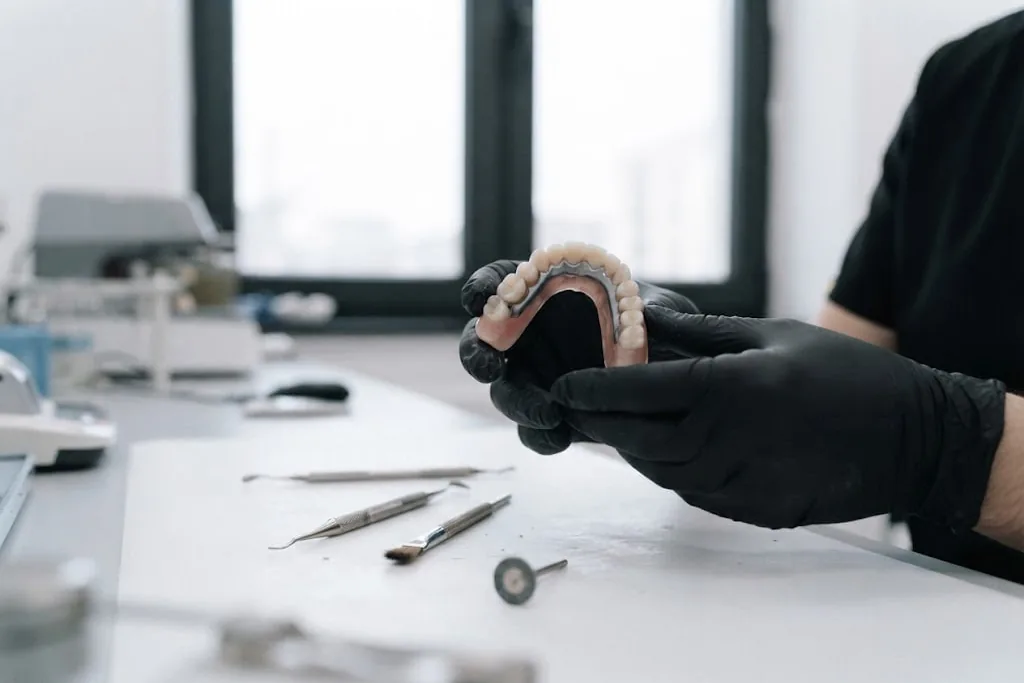
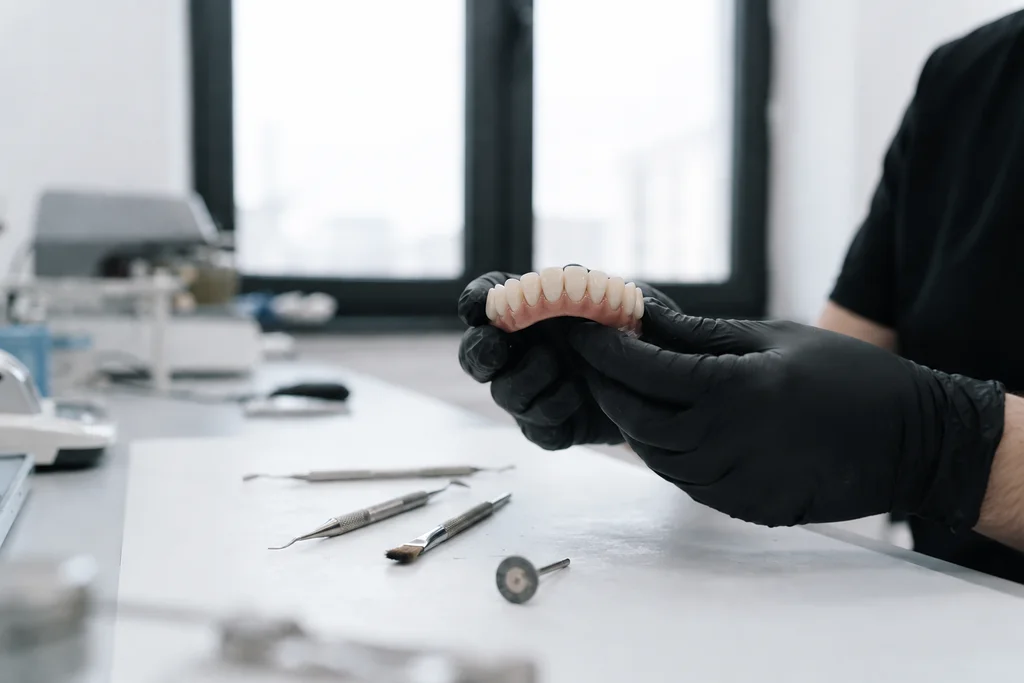
[FKLDSJ-062] Заменил фото завтрака и протеза в руках

diff --git a/final/index.html b/final/index.html
@@ -187,7 +187,7 @@
  <h2 id="care-title">Восстановим жевательную функцию<br> и остановим обвисание овала лица</h2>
  <div class="care-grid">
   <article class="care-item">
-   <img src="../assets/land/care-chewing.webp?v=2" alt="Мужчина с аппетитом ест багет за столом" width="1020" height="765" loading="lazy">
+   <img src="../assets/land/care-chewing.webp?v=3" alt="Пожилая пара завтракает дома, мужчина с аппетитом ест бутерброд" width="1020" height="765" loading="lazy">
    <div class="care-item-body"><h3>Восстановление жевательной функции</h3><p>Поможем вернуть радость от еды.<br>Протез с опорой на импланты не двигается и не натирает. Нагрузку увеличивают по рекомендациям врача: сроки адаптации и допустимые продукты зависят от этапа лечения.</p></div>
   </article>
   <article class="care-item">
@@ -236,7 +236,7 @@
     </div>
   </div>
 </section>
-<section class="implant-brands" id="implant-brands" aria-labelledby="implant-brands-title"><div class="implant-brands-wrap"><h2 id="implant-brands-title">Используем лучшие бренды имплантов</h2><p class="implant-brands-intro">У каждой системы свои варианты поверхности, формы и протезных компонентов.<br> Врач выбирает модель под вашу ситуацию и будущую конструкцию.</p><div class="implant-brands-grid"><article class="implant-brand-card snucone"><div class="implant-country"><svg viewBox="0 0 32 23" width="30" height="22" aria-hidden="true"><rect width="32" height="23" rx="4" fill="white" stroke="#e9e4ef"/><g transform="translate(16 11.5) rotate(30)"><circle r="6" fill="#cd2e3a"/><path d="M-6 0a6 6 0 0012 0a3 3 0 00-6 0a3 3 0 01-6 0" fill="#0047a0"/></g><path d="M4 5l4-2M3 8l4-2M24 3l4 2M25 6l4 2M3 17l4 2M4 20l4 2M24 20l4-2M25 17l4-2" stroke="#222" stroke-width="1.5"/></svg><span>Южная Корея</span></div><div class="implant-brand-logo"><img src="../assets/brands/snucone.png" alt="SNUCONE" loading="lazy"></div><img class="implant-product" src="../assets/render/implant-snucone.webp" alt="Иллюстрация импланта SNUCONE" width="100" height="230" loading="lazy"><ul><li><svg viewBox="0 0 24 24" aria-hidden="true"><path d="m4 12 5 5L21 5" fill="none" stroke="currentColor" stroke-width="2.7" stroke-linecap="round" stroke-linejoin="round"/></svg><span>SLA-поверхность по технологии, разработанной с немецким партнёром</span></li><li><svg viewBox="0 0 24 24" aria-hidden="true"><path d="m4 12 5 5L21 5" fill="none" stroke="currentColor" stroke-width="2.7" stroke-linecap="round" stroke-linejoin="round"/></svg><span>Внутренний шестигранник с конусом 11° – плотная посадка протеза</span></li><li><svg viewBox="0 0 24 24" aria-hidden="true"><path d="m4 12 5 5L21 5" fill="none" stroke="currentColor" stroke-width="2.7" stroke-linecap="round" stroke-linejoin="round"/></svg><span>Базовое решение центра имплантации на Динамо</span></li></ul><div class="implant-brand-price"><span>всё на 4-х под ключ</span><strong>189 000 ₽</strong></div></article><article class="implant-brand-card riellens"><div class="implant-country"><svg viewBox="0 0 32 23" width="30" height="22" aria-hidden="true"><rect width="32" height="23" rx="4" fill="#009b3a"/><path d="M3 11.5L16 3l13 8.5L16 20z" fill="#ffdf00"/><circle cx="16" cy="11.5" r="6" fill="#002776"/><path d="M10.5 9.5q6 0 11 5" fill="none" stroke="white" stroke-width="1.5"/></svg><span>Бразилия</span></div><div class="implant-brand-logo"><img src="../assets/brands/riellens.png" alt="Riellen’s" loading="lazy"></div><img class="implant-product" src="../assets/render/implant-riellens.webp" alt="Иллюстрация импланта Riellen’s" width="100" height="230" loading="lazy"><ul><li><svg viewBox="0 0 24 24" aria-hidden="true"><path d="m4 12 5 5L21 5" fill="none" stroke="currentColor" stroke-width="2.7" stroke-linecap="round" stroke-linejoin="round"/></svg><span>Технически чистый титан Grade 4 без алюминия и ванадия</span></li><li><svg viewBox="0 0 24 24" aria-hidden="true"><path d="m4 12 5 5L21 5" fill="none" stroke="currentColor" stroke-width="2.7" stroke-linecap="round" stroke-linejoin="round"/></svg><span>Модифицированная SLA-поверхность, широкий выбор размеров</span></li><li><svg viewBox="0 0 24 24" aria-hidden="true"><path d="m4 12 5 5L21 5" fill="none" stroke="currentColor" stroke-width="2.7" stroke-linecap="round" stroke-linejoin="round"/></svg><span>Протоколы немедленной нагрузки на 4 и 6 опорах</span></li></ul><div class="implant-brand-price"><span>всё на 4-х под ключ</span><strong>349 000 ₽</strong></div></article><article class="implant-brand-card nobel"><span class="implant-premium">Премиум</span><div class="implant-country"><svg viewBox="0 0 32 23" width="30" height="22" aria-hidden="true"><rect width="32" height="23" rx="4" fill="#ed1028"/><path d="M13 4h6v5h5v5h-5v5h-6v-5H8V9h5z" fill="white"/></svg><span>Швейцария</span></div><div class="implant-brand-logo neodent-logo"><img src="../assets/brands/neodent.png" alt="Neodent by Straumann" loading="lazy"></div><img class="implant-product" src="../assets/render/implant-nobel.webp" alt="Иллюстрация импланта Straumann" width="100" height="230" loading="lazy"><ul><li><svg viewBox="0 0 24 24" aria-hidden="true"><path d="m4 12 5 5L21 5" fill="none" stroke="currentColor" stroke-width="2.7" stroke-linecap="round" stroke-linejoin="round"/></svg><span>Straumann Group – один из мировых лидеров имплантологии</span></li><li><svg viewBox="0 0 24 24" aria-hidden="true"><path d="m4 12 5 5L21 5" fill="none" stroke="currentColor" stroke-width="2.7" stroke-linecap="round" stroke-linejoin="round"/></svg><span>Поверхность для надёжной остеоинтеграции</span></li><li><svg viewBox="0 0 24 24" aria-hidden="true"><path d="m4 12 5 5L21 5" fill="none" stroke="currentColor" stroke-width="2.7" stroke-linecap="round" stroke-linejoin="round"/></svg><span>Гарантия производителя на импланты</span></li></ul><div class="implant-brand-price"><span>всё на 4-х под ключ</span><strong>379 000 ₽</strong></div></article></div></div></section><section class="smile-aesthetic" id="smile-aesthetic" aria-labelledby="smile-aesthetic-title"><div class="smile-aesthetic-wrap"><div class="smile-aesthetic-hero"><div class="smile-aesthetic-copy"><h2 id="smile-aesthetic-title">Работаем над естественной <span>эстетикой вашей улыбки</span></h2><p class="smile-aesthetic-lead">Подберём форму и цвет эмали, подходящие к вашему типу лица.</p><p>Диагностика, согласование формы и цвета, изготовление и проверка удобства – отдельные шаги вашего плана. Протез проектируем по CAD/CAM с учётом анатомии челюсти и прикуса.</p></div></div><div class="smile-shade-panel"><div class="smile-shade-photo" id="shadePhoto"><img src="../assets/shade/smile.jpg" alt="Улыбка пациентки после протезирования" width="1200" height="675" loading="lazy"><div class="shade-tint"></div><div class="shade-bleach"></div><div class="smile-shade-label"><b>A2</b><small>Естественный тёплый оттенок</small></div></div><div class="smile-shade-selector"><p class="smile-shade-hint">Выберите оттенок, чтобы узнать о нём больше</p><div class="smile-shade-row" role="group" aria-label="Образцы оттенков зубов"><div class="smile-shade-item" data-shade="A1" data-t="#f3ecd9"><div class="smile-shade-tip" id="shade-tip-A1" role="tooltip"><strong>A1</strong><span>Светлый тёплый оттенок</span></div><button class="smile-shade-button" type="button" aria-label="Оттенок A1" aria-describedby="shade-tip-A1" aria-pressed="false"><img src="../assets/shades/A1.webp" alt="" width="70" height="130" loading="lazy"><span>A1</span></button></div><div class="smile-shade-item is-preview" data-shade="A2" data-t="#eadbb9"><div class="smile-shade-tip" id="shade-tip-A2" role="tooltip"><strong>A2</strong><span>Естественный тёплый оттенок</span></div><button class="smile-shade-button" type="button" aria-label="Оттенок A2" aria-describedby="shade-tip-A2" aria-pressed="true"><img src="../assets/shades/A2.webp" alt="" width="70" height="130" loading="lazy"><span>A2</span></button></div><div class="smile-shade-item" data-shade="A3" data-t="#dcc38f"><div class="smile-shade-tip" id="shade-tip-A3" role="tooltip"><strong>A3</strong><span>Более насыщенный тёплый оттенок</span></div><button class="smile-shade-button" type="button" aria-label="Оттенок A3" aria-describedby="shade-tip-A3" aria-pressed="false"><img src="../assets/shades/A3.webp" alt="" width="70" height="130" loading="lazy"><span>A3</span></button></div><div class="smile-shade-item" data-shade="B1" data-t="#f3f1e4"><div class="smile-shade-tip" id="shade-tip-B1" role="tooltip"><strong>B1</strong><span>Светлый нейтральный оттенок</span></div><button class="smile-shade-button" type="button" aria-label="Оттенок B1" aria-describedby="shade-tip-B1" aria-pressed="false"><img src="../assets/shades/B1.webp" alt="" width="70" height="130" loading="lazy"><span>B1</span></button></div><div class="smile-shade-item" data-shade="B2" data-t="#e6d8a6"><div class="smile-shade-tip" id="shade-tip-B2" role="tooltip"><strong>B2</strong><span>Мягкий желтоватый оттенок</span></div><button class="smile-shade-button" type="button" aria-label="Оттенок B2" aria-describedby="shade-tip-B2" aria-pressed="false"><img src="../assets/shades/B2.webp" alt="" width="70" height="130" loading="lazy"><span>B2</span></button></div><div class="smile-shade-item" data-shade="C1" data-t="#d8d5c9"><div class="smile-shade-tip" id="shade-tip-C1" role="tooltip"><strong>C1</strong><span>Сдержанный сероватый оттенок</span></div><button class="smile-shade-button" type="button" aria-label="Оттенок C1" aria-describedby="shade-tip-C1" aria-pressed="false"><img src="../assets/shades/C1.webp" alt="" width="70" height="130" loading="lazy"><span>C1</span></button></div><div class="smile-shade-item" data-shade="D2" data-t="#d2c1b2"><div class="smile-shade-tip" id="shade-tip-D2" role="tooltip"><strong>D2</strong><span>Красновато-серый оттенок</span></div><button class="smile-shade-button" type="button" aria-label="Оттенок D2" aria-describedby="shade-tip-D2" aria-pressed="false"><img src="../assets/shades/D2.webp" alt="" width="70" height="130" loading="lazy"><span>D2</span></button></div><div class="smile-shade-item" data-shade="BL" data-t="#ffffff" data-bl="1"><div class="smile-shade-tip" id="shade-tip-BL" role="tooltip"><strong>BL</strong><span>Яркий отбелённый оттенок</span></div><button class="smile-shade-button" type="button" aria-label="Оттенок BL" aria-describedby="shade-tip-BL" aria-pressed="false"><img src="../assets/shades/BL.webp" alt="" width="70" height="130" loading="lazy"><span>BL</span></button></div></div><p class="smile-shade-note">Иллюстративные образцы оттенков VITA и Bleach. Цвет на экране может отличаться. Финальный оттенок подбирает врач вместе с вами на примерке.</p><span class="smile-shade-status" role="status" aria-live="polite"></span></div></div></div></section><section class="opinion-section" id="second-opinion" aria-labelledby="opinion-title"><div class="opinion-wrap"><ol class="opinion-stages" aria-label="Этапы цифрового протезирования"><li><img src="../assets/land/stage-ct.webp?v=2" alt="3D КТ челюсти в клинике" width="1200" height="800" loading="lazy"><div><span class="opinion-stage-number">1</span><p>3D КТ с ИИ-анализом<br> Diagnocat – 0 ₽</p></div></li><li><img src="../assets/land/stage-plan.webp?v=2" alt="Цифровое планирование имплантации" width="1200" height="800" loading="lazy"><div><span class="opinion-stage-number">2</span><p>Цифровой план<br> и выбор оттенка</p></div></li><li><img src="../assets/render/stage-prosthesis.webp?v=2" alt="Протез с кобальт-хромовой балкой" width="1200" height="800" loading="lazy"><div><span class="opinion-stage-number">3</span><p>Протез с кобальт-хромовой<br> балкой</p></div></li></ol><div class="opinion-card"><div class="opinion-copy"><span class="opinion-eyebrow">Второе мнение</span><h2 id="opinion-title">Пришлите план лечения – <span>получите скидку 15%</span></h2><p>Разберём чужой план по пунктам: что действительно нужно, что лишнее, где спрятаны доплаты. Ответим понятным языком и пришлём свой расчёт со скидкой 15%.</p><img class="opinion-documents" src="../assets/render/plan-documents.webp" alt="Иллюстрация документов с планом лечения" width="520" height="310" loading="lazy"><svg class="opinion-arrow" viewBox="0 0 110 80" fill="none" aria-hidden="true"><path d="M4 74Q36 13 98 17m-14-13 15 13-15 13" stroke="currentColor" stroke-width="2.5" stroke-linecap="round" stroke-linejoin="round"/></svg></div><form class="opinion-form" id="opinion-form"><h3>Фото или PDF плана</h3><label class="opinion-drop" id="opinion-drop"><input type="file" id="opinion-files" accept="image/jpeg,image/png,image/webp,application/pdf" multiple aria-label="Выбрать фото или PDF плана лечения"><svg viewBox="0 0 80 80" fill="none" aria-hidden="true"><path d="M24 53H20a14 14 0 01-1-28 22 22 0 0142-1 15 15 0 01-1 29h-5M40 64V35m-11 11 11-11 11 11" stroke="currentColor" stroke-width="3" stroke-linecap="round" stroke-linejoin="round"/></svg><span>Перетащите сюда или нажмите</span><small>PDF, JPG, PNG или WebP · до 5 файлов по 10 МБ</small></label><ul class="opinion-file-list" aria-label="Выбранные файлы"></ul><p class="opinion-upload-status" role="status" aria-live="polite"></p><button class="opinion-submit" type="submit">Получить расчёт со скидкой <span aria-hidden="true">›</span></button><label class="opinion-consent"><input type="checkbox" required><span>Согласен на <a href="policy/" target="_blank" rel="noopener">обработку персональных данных</a></span></label><p class="form-message" role="status" aria-live="polite"></p></form></div></div></section><section id="care-support" class="care-support" aria-labelledby="care-support-title"><div class="care-support-wrap"><h2 id="care-support-title">Сопровождение и гарантии – в договоре</h2><p class="care-support-intro">До начала лечения согласуем план, стоимость и обязательства клиники.<br> Условия сопровождения и гарантии фиксируем в договоре и приложениях.</p><ol class="care-support-steps"><li class="care-support-step care-support-step-1"><div class="care-support-visual"><span class="care-support-number" aria-hidden="true">1</span><img src="../assets/land/support-consult.webp?v=2" alt="Консультация и диагностика" width="1200" height="800" loading="lazy"></div><h3>Консультация<br>и диагностика</h3><p>Выясняем ситуацию и объясняем, какие обследования нужны. КТ и консультация имплантолога – <b>0 ₽.</b></p></li><li class="care-support-step care-support-step-2"><div class="care-support-visual"><span class="care-support-number" aria-hidden="true">2</span><img src="../assets/land/support-plan.webp" alt="Выбор решения и стоимость" width="1200" height="800" loading="lazy"></div><h3>Выбор решения<br>и стоимость</h3><p>Согласуем вариант лечения, этапы и расчёт до начала работ. Три плана от трёх специалистов.</p></li><li class="care-support-step care-support-step-3"><div class="care-support-visual"><span class="care-support-number" aria-hidden="true">3</span><img src="../assets/land/support-treatment.webp?v=2" alt="Подготовка и лечение" width="1200" height="800" loading="lazy"></div><h3>Подготовка<br>и лечение</h3><p>Удаление, установка имплантов и адаптационный протез – в один визит.</p></li><li class="care-support-step care-support-step-4"><div class="care-support-visual"><span class="care-support-number" aria-hidden="true">4</span><img src="../assets/land/support-prosthetics.webp?v=2" alt="Протезирование" width="1200" height="800" loading="lazy"></div><h3>Протезирование</h3><p>Согласуем внешний вид зубов, проверяем прикус и удобство.</p></li><li class="care-support-step care-support-step-5"><div class="care-support-visual"><span class="care-support-number" aria-hidden="true">5</span><img src="../assets/land/support-care.webp?v=2" alt="Адаптация и поддержка" width="1200" height="800" loading="lazy"></div><h3>Адаптация<br>и поддержка</h3><p>Рекомендации по уходу, осмотры и коррекции по плану. Остаёмся на связи 24/7.</p></li><li class="care-support-step care-support-step-6"><div class="care-support-visual"><span class="care-support-number" aria-hidden="true">6</span><img src="../assets/land/support-guarantee.webp" alt="Гарантия и обслуживание" width="1200" height="800" loading="lazy"></div><h3>Гарантия<br>и обслуживание</h3><p>Сроки, условия гарантии и порядок обращения прописаны <b>в договоре.</b></p></li></ol><article class="care-contract"><div class="care-contract-art"><img src="../assets/render/contract.webp" alt="Иллюстрация договора на стоматологические услуги" width="480" height="280" loading="lazy"></div><div class="care-contract-copy"><span class="care-contract-eyebrow">Образец договора</span><h3>Изучите договор до консультации</h3><p>В договоре зафиксировано всё, о чём договорились на консультации:</p><ul class="care-contract-list"><li>объём услуг</li><li>стоимость</li><li>порядок оплаты</li><li>условия гарантии</li><li>обязанности сторон</li></ul><button type="button" class="care-contract-button" data-modal data-contract>Запросить договор <span aria-hidden="true">›</span></button><p class="care-contract-note">Пришлём образец на почту или покажем на консультации.</p></div></article></div></section><!-- О клинике -->
+<section class="implant-brands" id="implant-brands" aria-labelledby="implant-brands-title"><div class="implant-brands-wrap"><h2 id="implant-brands-title">Используем лучшие бренды имплантов</h2><p class="implant-brands-intro">У каждой системы свои варианты поверхности, формы и протезных компонентов.<br> Врач выбирает модель под вашу ситуацию и будущую конструкцию.</p><div class="implant-brands-grid"><article class="implant-brand-card snucone"><div class="implant-country"><svg viewBox="0 0 32 23" width="30" height="22" aria-hidden="true"><rect width="32" height="23" rx="4" fill="white" stroke="#e9e4ef"/><g transform="translate(16 11.5) rotate(30)"><circle r="6" fill="#cd2e3a"/><path d="M-6 0a6 6 0 0012 0a3 3 0 00-6 0a3 3 0 01-6 0" fill="#0047a0"/></g><path d="M4 5l4-2M3 8l4-2M24 3l4 2M25 6l4 2M3 17l4 2M4 20l4 2M24 20l4-2M25 17l4-2" stroke="#222" stroke-width="1.5"/></svg><span>Южная Корея</span></div><div class="implant-brand-logo"><img src="../assets/brands/snucone.png" alt="SNUCONE" loading="lazy"></div><img class="implant-product" src="../assets/render/implant-snucone.webp" alt="Иллюстрация импланта SNUCONE" width="100" height="230" loading="lazy"><ul><li><svg viewBox="0 0 24 24" aria-hidden="true"><path d="m4 12 5 5L21 5" fill="none" stroke="currentColor" stroke-width="2.7" stroke-linecap="round" stroke-linejoin="round"/></svg><span>SLA-поверхность по технологии, разработанной с немецким партнёром</span></li><li><svg viewBox="0 0 24 24" aria-hidden="true"><path d="m4 12 5 5L21 5" fill="none" stroke="currentColor" stroke-width="2.7" stroke-linecap="round" stroke-linejoin="round"/></svg><span>Внутренний шестигранник с конусом 11° – плотная посадка протеза</span></li><li><svg viewBox="0 0 24 24" aria-hidden="true"><path d="m4 12 5 5L21 5" fill="none" stroke="currentColor" stroke-width="2.7" stroke-linecap="round" stroke-linejoin="round"/></svg><span>Базовое решение центра имплантации на Динамо</span></li></ul><div class="implant-brand-price"><span>всё на 4-х под ключ</span><strong>189 000 ₽</strong></div></article><article class="implant-brand-card riellens"><div class="implant-country"><svg viewBox="0 0 32 23" width="30" height="22" aria-hidden="true"><rect width="32" height="23" rx="4" fill="#009b3a"/><path d="M3 11.5L16 3l13 8.5L16 20z" fill="#ffdf00"/><circle cx="16" cy="11.5" r="6" fill="#002776"/><path d="M10.5 9.5q6 0 11 5" fill="none" stroke="white" stroke-width="1.5"/></svg><span>Бразилия</span></div><div class="implant-brand-logo"><img src="../assets/brands/riellens.png" alt="Riellen’s" loading="lazy"></div><img class="implant-product" src="../assets/render/implant-riellens.webp" alt="Иллюстрация импланта Riellen’s" width="100" height="230" loading="lazy"><ul><li><svg viewBox="0 0 24 24" aria-hidden="true"><path d="m4 12 5 5L21 5" fill="none" stroke="currentColor" stroke-width="2.7" stroke-linecap="round" stroke-linejoin="round"/></svg><span>Технически чистый титан Grade 4 без алюминия и ванадия</span></li><li><svg viewBox="0 0 24 24" aria-hidden="true"><path d="m4 12 5 5L21 5" fill="none" stroke="currentColor" stroke-width="2.7" stroke-linecap="round" stroke-linejoin="round"/></svg><span>Модифицированная SLA-поверхность, широкий выбор размеров</span></li><li><svg viewBox="0 0 24 24" aria-hidden="true"><path d="m4 12 5 5L21 5" fill="none" stroke="currentColor" stroke-width="2.7" stroke-linecap="round" stroke-linejoin="round"/></svg><span>Протоколы немедленной нагрузки на 4 и 6 опорах</span></li></ul><div class="implant-brand-price"><span>всё на 4-х под ключ</span><strong>349 000 ₽</strong></div></article><article class="implant-brand-card nobel"><span class="implant-premium">Премиум</span><div class="implant-country"><svg viewBox="0 0 32 23" width="30" height="22" aria-hidden="true"><rect width="32" height="23" rx="4" fill="#ed1028"/><path d="M13 4h6v5h5v5h-5v5h-6v-5H8V9h5z" fill="white"/></svg><span>Швейцария</span></div><div class="implant-brand-logo neodent-logo"><img src="../assets/brands/neodent.png" alt="Neodent by Straumann" loading="lazy"></div><img class="implant-product" src="../assets/render/implant-nobel.webp" alt="Иллюстрация импланта Straumann" width="100" height="230" loading="lazy"><ul><li><svg viewBox="0 0 24 24" aria-hidden="true"><path d="m4 12 5 5L21 5" fill="none" stroke="currentColor" stroke-width="2.7" stroke-linecap="round" stroke-linejoin="round"/></svg><span>Straumann Group – один из мировых лидеров имплантологии</span></li><li><svg viewBox="0 0 24 24" aria-hidden="true"><path d="m4 12 5 5L21 5" fill="none" stroke="currentColor" stroke-width="2.7" stroke-linecap="round" stroke-linejoin="round"/></svg><span>Поверхность для надёжной остеоинтеграции</span></li><li><svg viewBox="0 0 24 24" aria-hidden="true"><path d="m4 12 5 5L21 5" fill="none" stroke="currentColor" stroke-width="2.7" stroke-linecap="round" stroke-linejoin="round"/></svg><span>Гарантия производителя на импланты</span></li></ul><div class="implant-brand-price"><span>всё на 4-х под ключ</span><strong>379 000 ₽</strong></div></article></div></div></section><section class="smile-aesthetic" id="smile-aesthetic" aria-labelledby="smile-aesthetic-title"><div class="smile-aesthetic-wrap"><div class="smile-aesthetic-hero"><div class="smile-aesthetic-copy"><h2 id="smile-aesthetic-title">Работаем над естественной <span>эстетикой вашей улыбки</span></h2><p class="smile-aesthetic-lead">Подберём форму и цвет эмали, подходящие к вашему типу лица.</p><p>Диагностика, согласование формы и цвета, изготовление и проверка удобства – отдельные шаги вашего плана. Протез проектируем по CAD/CAM с учётом анатомии челюсти и прикуса.</p></div></div><div class="smile-shade-panel"><div class="smile-shade-photo" id="shadePhoto"><img src="../assets/shade/smile.jpg" alt="Улыбка пациентки после протезирования" width="1200" height="675" loading="lazy"><div class="shade-tint"></div><div class="shade-bleach"></div><div class="smile-shade-label"><b>A2</b><small>Естественный тёплый оттенок</small></div></div><div class="smile-shade-selector"><p class="smile-shade-hint">Выберите оттенок, чтобы узнать о нём больше</p><div class="smile-shade-row" role="group" aria-label="Образцы оттенков зубов"><div class="smile-shade-item" data-shade="A1" data-t="#f3ecd9"><div class="smile-shade-tip" id="shade-tip-A1" role="tooltip"><strong>A1</strong><span>Светлый тёплый оттенок</span></div><button class="smile-shade-button" type="button" aria-label="Оттенок A1" aria-describedby="shade-tip-A1" aria-pressed="false"><img src="../assets/shades/A1.webp" alt="" width="70" height="130" loading="lazy"><span>A1</span></button></div><div class="smile-shade-item is-preview" data-shade="A2" data-t="#eadbb9"><div class="smile-shade-tip" id="shade-tip-A2" role="tooltip"><strong>A2</strong><span>Естественный тёплый оттенок</span></div><button class="smile-shade-button" type="button" aria-label="Оттенок A2" aria-describedby="shade-tip-A2" aria-pressed="true"><img src="../assets/shades/A2.webp" alt="" width="70" height="130" loading="lazy"><span>A2</span></button></div><div class="smile-shade-item" data-shade="A3" data-t="#dcc38f"><div class="smile-shade-tip" id="shade-tip-A3" role="tooltip"><strong>A3</strong><span>Более насыщенный тёплый оттенок</span></div><button class="smile-shade-button" type="button" aria-label="Оттенок A3" aria-describedby="shade-tip-A3" aria-pressed="false"><img src="../assets/shades/A3.webp" alt="" width="70" height="130" loading="lazy"><span>A3</span></button></div><div class="smile-shade-item" data-shade="B1" data-t="#f3f1e4"><div class="smile-shade-tip" id="shade-tip-B1" role="tooltip"><strong>B1</strong><span>Светлый нейтральный оттенок</span></div><button class="smile-shade-button" type="button" aria-label="Оттенок B1" aria-describedby="shade-tip-B1" aria-pressed="false"><img src="../assets/shades/B1.webp" alt="" width="70" height="130" loading="lazy"><span>B1</span></button></div><div class="smile-shade-item" data-shade="B2" data-t="#e6d8a6"><div class="smile-shade-tip" id="shade-tip-B2" role="tooltip"><strong>B2</strong><span>Мягкий желтоватый оттенок</span></div><button class="smile-shade-button" type="button" aria-label="Оттенок B2" aria-describedby="shade-tip-B2" aria-pressed="false"><img src="../assets/shades/B2.webp" alt="" width="70" height="130" loading="lazy"><span>B2</span></button></div><div class="smile-shade-item" data-shade="C1" data-t="#d8d5c9"><div class="smile-shade-tip" id="shade-tip-C1" role="tooltip"><strong>C1</strong><span>Сдержанный сероватый оттенок</span></div><button class="smile-shade-button" type="button" aria-label="Оттенок C1" aria-describedby="shade-tip-C1" aria-pressed="false"><img src="../assets/shades/C1.webp" alt="" width="70" height="130" loading="lazy"><span>C1</span></button></div><div class="smile-shade-item" data-shade="D2" data-t="#d2c1b2"><div class="smile-shade-tip" id="shade-tip-D2" role="tooltip"><strong>D2</strong><span>Красновато-серый оттенок</span></div><button class="smile-shade-button" type="button" aria-label="Оттенок D2" aria-describedby="shade-tip-D2" aria-pressed="false"><img src="../assets/shades/D2.webp" alt="" width="70" height="130" loading="lazy"><span>D2</span></button></div><div class="smile-shade-item" data-shade="BL" data-t="#ffffff" data-bl="1"><div class="smile-shade-tip" id="shade-tip-BL" role="tooltip"><strong>BL</strong><span>Яркий отбелённый оттенок</span></div><button class="smile-shade-button" type="button" aria-label="Оттенок BL" aria-describedby="shade-tip-BL" aria-pressed="false"><img src="../assets/shades/BL.webp" alt="" width="70" height="130" loading="lazy"><span>BL</span></button></div></div><p class="smile-shade-note">Иллюстративные образцы оттенков VITA и Bleach. Цвет на экране может отличаться. Финальный оттенок подбирает врач вместе с вами на примерке.</p><span class="smile-shade-status" role="status" aria-live="polite"></span></div></div></div></section><section class="opinion-section" id="second-opinion" aria-labelledby="opinion-title"><div class="opinion-wrap"><ol class="opinion-stages" aria-label="Этапы цифрового протезирования"><li><img src="../assets/land/stage-ct.webp?v=2" alt="3D КТ челюсти в клинике" width="1200" height="800" loading="lazy"><div><span class="opinion-stage-number">1</span><p>3D КТ с ИИ-анализом<br> Diagnocat – 0 ₽</p></div></li><li><img src="../assets/land/stage-plan.webp?v=2" alt="Цифровое планирование имплантации" width="1200" height="800" loading="lazy"><div><span class="opinion-stage-number">2</span><p>Цифровой план<br> и выбор оттенка</p></div></li><li><img src="../assets/render/stage-prosthesis.webp?v=3" alt="Готовый протез в руках зубного техника" width="1200" height="800" loading="lazy"><div><span class="opinion-stage-number">3</span><p>Протез с кобальт-хромовой<br> балкой</p></div></li></ol><div class="opinion-card"><div class="opinion-copy"><span class="opinion-eyebrow">Второе мнение</span><h2 id="opinion-title">Пришлите план лечения – <span>получите скидку 15%</span></h2><p>Разберём чужой план по пунктам: что действительно нужно, что лишнее, где спрятаны доплаты. Ответим понятным языком и пришлём свой расчёт со скидкой 15%.</p><img class="opinion-documents" src="../assets/render/plan-documents.webp" alt="Иллюстрация документов с планом лечения" width="520" height="310" loading="lazy"><svg class="opinion-arrow" viewBox="0 0 110 80" fill="none" aria-hidden="true"><path d="M4 74Q36 13 98 17m-14-13 15 13-15 13" stroke="currentColor" stroke-width="2.5" stroke-linecap="round" stroke-linejoin="round"/></svg></div><form class="opinion-form" id="opinion-form"><h3>Фото или PDF плана</h3><label class="opinion-drop" id="opinion-drop"><input type="file" id="opinion-files" accept="image/jpeg,image/png,image/webp,application/pdf" multiple aria-label="Выбрать фото или PDF плана лечения"><svg viewBox="0 0 80 80" fill="none" aria-hidden="true"><path d="M24 53H20a14 14 0 01-1-28 22 22 0 0142-1 15 15 0 01-1 29h-5M40 64V35m-11 11 11-11 11 11" stroke="currentColor" stroke-width="3" stroke-linecap="round" stroke-linejoin="round"/></svg><span>Перетащите сюда или нажмите</span><small>PDF, JPG, PNG или WebP · до 5 файлов по 10 МБ</small></label><ul class="opinion-file-list" aria-label="Выбранные файлы"></ul><p class="opinion-upload-status" role="status" aria-live="polite"></p><button class="opinion-submit" type="submit">Получить расчёт со скидкой <span aria-hidden="true">›</span></button><label class="opinion-consent"><input type="checkbox" required><span>Согласен на <a href="policy/" target="_blank" rel="noopener">обработку персональных данных</a></span></label><p class="form-message" role="status" aria-live="polite"></p></form></div></div></section><section id="care-support" class="care-support" aria-labelledby="care-support-title"><div class="care-support-wrap"><h2 id="care-support-title">Сопровождение и гарантии – в договоре</h2><p class="care-support-intro">До начала лечения согласуем план, стоимость и обязательства клиники.<br> Условия сопровождения и гарантии фиксируем в договоре и приложениях.</p><ol class="care-support-steps"><li class="care-support-step care-support-step-1"><div class="care-support-visual"><span class="care-support-number" aria-hidden="true">1</span><img src="../assets/land/support-consult.webp?v=2" alt="Консультация и диагностика" width="1200" height="800" loading="lazy"></div><h3>Консультация<br>и диагностика</h3><p>Выясняем ситуацию и объясняем, какие обследования нужны. КТ и консультация имплантолога – <b>0 ₽.</b></p></li><li class="care-support-step care-support-step-2"><div class="care-support-visual"><span class="care-support-number" aria-hidden="true">2</span><img src="../assets/land/support-plan.webp" alt="Выбор решения и стоимость" width="1200" height="800" loading="lazy"></div><h3>Выбор решения<br>и стоимость</h3><p>Согласуем вариант лечения, этапы и расчёт до начала работ. Три плана от трёх специалистов.</p></li><li class="care-support-step care-support-step-3"><div class="care-support-visual"><span class="care-support-number" aria-hidden="true">3</span><img src="../assets/land/support-treatment.webp?v=2" alt="Подготовка и лечение" width="1200" height="800" loading="lazy"></div><h3>Подготовка<br>и лечение</h3><p>Удаление, установка имплантов и адаптационный протез – в один визит.</p></li><li class="care-support-step care-support-step-4"><div class="care-support-visual"><span class="care-support-number" aria-hidden="true">4</span><img src="../assets/land/support-prosthetics.webp?v=2" alt="Протезирование" width="1200" height="800" loading="lazy"></div><h3>Протезирование</h3><p>Согласуем внешний вид зубов, проверяем прикус и удобство.</p></li><li class="care-support-step care-support-step-5"><div class="care-support-visual"><span class="care-support-number" aria-hidden="true">5</span><img src="../assets/land/support-care.webp?v=2" alt="Адаптация и поддержка" width="1200" height="800" loading="lazy"></div><h3>Адаптация<br>и поддержка</h3><p>Рекомендации по уходу, осмотры и коррекции по плану. Остаёмся на связи 24/7.</p></li><li class="care-support-step care-support-step-6"><div class="care-support-visual"><span class="care-support-number" aria-hidden="true">6</span><img src="../assets/land/support-guarantee.webp" alt="Гарантия и обслуживание" width="1200" height="800" loading="lazy"></div><h3>Гарантия<br>и обслуживание</h3><p>Сроки, условия гарантии и порядок обращения прописаны <b>в договоре.</b></p></li></ol><article class="care-contract"><div class="care-contract-art"><img src="../assets/render/contract.webp" alt="Иллюстрация договора на стоматологические услуги" width="480" height="280" loading="lazy"></div><div class="care-contract-copy"><span class="care-contract-eyebrow">Образец договора</span><h3>Изучите договор до консультации</h3><p>В договоре зафиксировано всё, о чём договорились на консультации:</p><ul class="care-contract-list"><li>объём услуг</li><li>стоимость</li><li>порядок оплаты</li><li>условия гарантии</li><li>обязанности сторон</li></ul><button type="button" class="care-contract-button" data-modal data-contract>Запросить договор <span aria-hidden="true">›</span></button><p class="care-contract-note">Пришлём образец на почту или покажем на консультации.</p></div></article></div></section><!-- О клинике -->
 <section class="closing-section about-section" id="about" aria-labelledby="about-title">
   <div class="closing-container about-wrap">
     <figure class="about-photo"><img src="../assets/land/team.webp" alt="Команда All Smiles" width="1600" height="900" loading="lazy"></figure>
